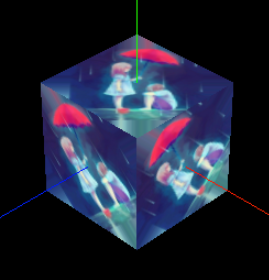
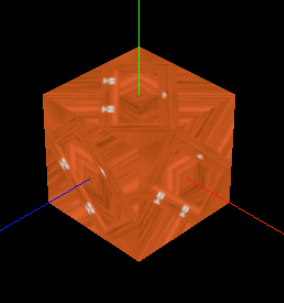
update

diff --git a/Three.js.md b/Three.js.md
@@ -184,6 +184,9 @@ scene.add(pointLightHelper)
 - 平移：拖动鼠标右键
 
 ```js
+// 引入 three.js 扩展库 OrbitControls.js 轨道控制器
+import {OrbitControls} from 'three/examples/jsm/controls/OrbitControls.js'
+
 // 创建轨道控制器
 const controls = new OrbitControls(camera, renderer.domElement)
 
@@ -858,10 +861,10 @@ for (let i = 0; i < 50; i++) {
 
 # 10. 纹理贴图
 
-## 1. 添加纹理贴图
+## 1. 色彩贴图
 
 ```js
-const map = new THREE.TextureLoader().load('./images/yv640.jpg') // 加载纹理（就是加载图片）
+const map = new THREE.TextureLoader().load('./images/door/color.jpg') // 加载纹理（就是加载图片）
 const geometry = new THREE.BoxGeometry(1, 1, 1)
 const material = new THREE.MeshBasicMaterial({
   map // 设置纹理贴图
@@ -874,7 +877,7 @@ scene.add(mesh)
 
 ![](./Three.js/效果图14.png)
 
-## 2. 设置偏移
+### 1. 设置偏移
 
 ```js
 map.offset.set(0.2, 0.2) // 设置 x、y 轴方向的偏移
@@ -885,7 +888,7 @@ map.offset.x = 0.2 // 还可以用属性设置
 
 ![](./Three.js/效果图15.png)
 
-## 3. 设置旋转角度
+### 2. 设置旋转角度
 
 ```js
 map.center.set(0.5, 0.5) // 设置旋转原点，当前为中心点，默认值为 (0, 0)，即左下角
@@ -896,7 +899,7 @@ map.rotation = Math.PI / 4 // 旋转 45 度
 
 ![](./Three.js/效果图16.png)
 
-## 4. 设置纹理重复
+### 3. 设置纹理重复
 
 ```js
 map.repeat.set(2, 3) // 设置 x、y 轴方向的重复
@@ -909,7 +912,7 @@ map.wrapT = THREE.RepeatWrapping // 水平方向普通重复
 
 ![](./Three.js/效果图17.png)
 
-## 5. 纹理显示的算法
+## 2. 纹理显示的算法
 
 ```js
 const map = new THREE.TextureLoader().load('./images/minecraft5.jpg') // 加载一张非常小的图片
@@ -930,13 +933,17 @@ map.magFilter = THREE.NearestFilter
 
 ![](./Three.js/效果图19.png)
 
-## 6. 透明纹理
+## 3. 透明纹理
 
 ```js
+const textureLoader = new THREE.TextureLoader()
+const map = textureLoader.load('./images/door/color.jpg')
+const alpha = textureLoader.load('./images/door/alpha.jpg') // 加载一张灰度纹理贴图
+const geometry = new THREE.BoxGeometry(1, 1, 1)
 const material = new THREE.MeshBasicMaterial({
   map,
   transparent: true, // 允许透明
-  alphaMap: map // 设置一张灰度纹理，用于控制整个表面的不透明度。越黑越透明，越白越不透明（黑色：完全透明，白色：完全不透明）
+  alphaMap: alpha // 设置一张灰度纹理，用于控制整个表面的不透明度。越黑越透明，越白越不透明（黑色：完全透明，白色：完全不透明）
 })
 ```
 
@@ -944,30 +951,31 @@ const material = new THREE.MeshBasicMaterial({
 
 ![](./Three.js/效果图20.png)
 
-## 7. AO 环境遮挡贴图
+## 4. AO 环境遮挡贴图
 
 ```js
-const map = new THREE.TextureLoader().load('./images/yv640.jpg')
+const textureLoader = new THREE.TextureLoader()
+const map = textureLoader.load('./images/door/color.jpg')
+const ao = textureLoader.load('./images/door/ao.jpg') // 加载一张 AO 环境遮挡纹理贴图
 const geometry = new THREE.BoxGeometry(1, 1, 1)
 const material = new THREE.MeshBasicMaterial({
   map,
-  aoMap: map, // 设置 AO 环境遮挡贴图，白色是不遮挡，越黑越遮挡，需要第二组 UV
+  aoMap: ao, // 设置 AO 环境遮挡贴图，白色是不遮挡，越黑越遮挡，需要第二组 UV
   aoMapIntensity: 0.8 // 环境遮挡效果的强度。默认值为 1。零是不遮挡效果。
 })
 const mesh = new THREE.Mesh(geometry, material)
 scene.add(mesh)
-// 设置第二组 uv
-geometry.setAttribute('uv2', new THREE.BufferAttribute(geometry.attributes.uv.array, 2))
+geometry.setAttribute('uv2', new THREE.BufferAttribute(geometry.attributes.uv.array, 2)) // 设置第二组 uv
 ```
 
 效果图：
 
 ![](./Three.js/效果图21.png)
 
-## 8. 标准网格材质与光照物理效果
+## 5. 标准网格材质与光照物理效果
 
 ```js
-const map = new THREE.TextureLoader().load('./images/yv640.jpg')
+const map = new THREE.TextureLoader().load('./images/door/color.jpg')
 const geometry = new THREE.BoxGeometry(1, 1, 1)
 const material = new THREE.MeshStandardMaterial({ // 标准网格材质 MeshStandardMaterial
   map
@@ -993,26 +1001,33 @@ scene.add(directionalLightHelper)
 
 ![](./Three.js/效果图22.png)
 
-## 9. 位移贴图
+## 6. 位移贴图
 
 ```js
-const geometry = new THREE.BoxGeometry(1, 1, 1, 10, 10, 10) // 后三个参数是设置宽、高、长的分段数
+const textureLoader = new THREE.TextureLoader()
+const map = textureLoader.load('./images/door/color.jpg')
+const displacement = textureLoader.load('./images/door/displacement.jpg') // 加载一张位移纹理贴图
+const geometry = new THREE.BoxGeometry(1, 1, 1, 100, 100, 100) // 后三个参数是设置宽、高、长的分段数
 const material = new THREE.MeshStandardMaterial({
   map,
-  displacementMap: map, // 设置位移贴图，需要给几何体设置宽、高、长的分段数才看得出来
+  displacementMap: displacement, // 设置位移贴图，需要给几何体设置宽、高、长的分段数才看得出来
   displacementScale: 0.2 // 设置位移贴图对网格的影响程度（越白位移越多，黑色是无位移）。如果没有设置位移贴图，则不会应用此值。默认值为 1
 })
 ```
 
 ![](./Three.js/效果图23.png)
 
-## 10. 粗糙度贴图
+## 7. 粗糙度贴图
 
 ```js
+const textureLoader = new THREE.TextureLoader()
+const map = textureLoader.load('./images/door/color.jpg')
+const roughness = textureLoader.load('./images/door/roughness.jpg') // 加载一张粗糙度纹理贴图
+const geometry = new THREE.BoxGeometry(1, 1, 1)
 const material = new THREE.MeshStandardMaterial({
   map,
   roughness: 1, // 设置材质的粗糙程度。0 表示平滑的镜面反射，1 表示完全漫反射。默认值为 1。如果还提供 roughnessMap，则两个值相乘。
-  roughnessMap: map // 设置粗糙度贴图，越白越粗糙，越黑越平滑
+  roughnessMap: roughness // 设置粗糙度贴图，越白越粗糙，越黑越平滑
 })
 ```
 
@@ -1020,17 +1035,21 @@ const material = new THREE.MeshStandardMaterial({
 
 ![](./Three.js/效果图24.png)
 
-## 11. 金属度贴图
+## 8. 金属度贴图
 
 ```js
+const textureLoader = new THREE.TextureLoader()
+const map = textureLoader.load('./images/door/color.jpg')
+const roughness = textureLoader.load('./images/door/roughness.jpg')
+const metalness = textureLoader.load('./images/door/metalness.jpg') // 加载一张金属度纹理贴图
+const geometry = new THREE.BoxGeometry(1, 1, 1)
 const material = new THREE.MeshStandardMaterial({
   map,
-  roughness: 1,
-  roughnessMap: map,
+  roughnessMap: roughness,
   // 设置材质与金属的相似度。非金属材质，如木材或石材，使用 0，金属使用 1，通常没有中间值。默认值为 0。
   // 0 到 1 之间的值可用于生锈金属的外观。如果还提供了 metalnessMap，则两个值相乘
   metalness: 1,
-  metalnessMap: map // 设置金属度贴图，白色是非金属，越黑越像金属
+  metalnessMap: metalness // 设置金属度贴图，白色是非金属，越黑越像金属
 })
 ```
 
@@ -1038,49 +1057,52 @@ const material = new THREE.MeshStandardMaterial({
 
 ![](./Three.js/效果图25.png)
 
-## 12. 法线贴图
+## 9. 法线贴图
 
 ```js
+const textureLoader = new THREE.TextureLoader()
+const map = textureLoader.load('./images/door/color.jpg')
+const roughness = textureLoader.load('./images/door/roughness.jpg')
+const metalness = textureLoader.load('./images/door/metalness.jpg')
+const normal = textureLoader.load('./images/door/normal.jpg') // 加载一张法线度纹理贴图
+const geometry = new THREE.BoxGeometry(1, 1, 1)
 const material = new THREE.MeshStandardMaterial({
   map,
-  roughness: 1,
-  roughnessMap: map,
-  metalness: 1,
-  metalnessMap: map,
-  normalMap: map2 // 用于创建法线贴图的纹理。RGB 值会影响每个像素片段的曲面法线，并更改颜色照亮的方式。法线贴图不会改变曲面的实际形状，只会改变光照
+  roughnessMap: roughness,
+  metalnessMap: metalness,
+  normalMap: normal // 用于创建法线贴图的纹理。RGB 值会影响每个像素片段的曲面法线，并更改颜色照亮的方式。法线贴图不会改变曲面的实际形状，只会改变光照
 })
 ```
 
 ![](./Three.js/效果图26.png)
 
-## 13. 演示从 poliigon 上下载的贴图
+## 10. 演示从 poliigon 上下载的贴图
 
 ```js
-const map = new THREE.TextureLoader().load('./images/MetalDesignerWeaveSteel002/MetalDesignerWeaveSteel002_COL_4K_METALNESS.jpg')
-const ao = new THREE.TextureLoader().load('./images/MetalDesignerWeaveSteel002/MetalDesignerWeaveSteel002_AO_4K_METALNESS.jpg')
-const disp = new THREE.TextureLoader().load('./images/MetalDesignerWeaveSteel002/MetalDesignerWeaveSteel002_DISP_4K_METALNESS.jpg')
-const roughness = new THREE.TextureLoader().load('./images/MetalDesignerWeaveSteel002/MetalDesignerWeaveSteel002_ROUGHNESS_4K_METALNESS.jpg')
-const metalness = new THREE.TextureLoader().load('./images/MetalDesignerWeaveSteel002/MetalDesignerWeaveSteel002_METALNESS_4K_METALNESS.jpg')
-const nrm = new THREE.TextureLoader().load('./images/MetalDesignerWeaveSteel002/MetalDesignerWeaveSteel002_NRM_4K_METALNESS.jpg')
+const textureLoader = new THREE.TextureLoader()
+const map = textureLoader.load('./images/MetalDesignerWeaveSteel002/MetalDesignerWeaveSteel002_COL_4K_METALNESS.jpg')
+const ao = textureLoader.load('./images/MetalDesignerWeaveSteel002/MetalDesignerWeaveSteel002_AO_4K_METALNESS.jpg')
+const disp = textureLoader.load('./images/MetalDesignerWeaveSteel002/MetalDesignerWeaveSteel002_DISP_4K_METALNESS.jpg')
+const roughness = textureLoader.load('./images/MetalDesignerWeaveSteel002/MetalDesignerWeaveSteel002_ROUGHNESS_4K_METALNESS.jpg')
+const metalness = textureLoader.load('./images/MetalDesignerWeaveSteel002/MetalDesignerWeaveSteel002_METALNESS_4K_METALNESS.jpg')
+const nrm = textureLoader.load('./images/MetalDesignerWeaveSteel002/MetalDesignerWeaveSteel002_NRM_4K_METALNESS.jpg')
 const geometry = new THREE.BoxGeometry(30, 30, 30, 100, 100, 100) // 正方形
-// const geometry = new THREE.SphereGeometry(20, 64, 32) // 圆形
 const material = new THREE.MeshStandardMaterial({
-  map,
+  map, // 色彩贴图
   aoMap: ao, // AO 环境遮挡贴图
   displacementMap: disp, // 位移贴图
   roughnessMap: roughness, // 粗糙度贴图
-  metalnessMap: metalness, // 金属度贴图 
+  metalnessMap: metalness, // 金属度贴图
   normalMap: nrm // 法线贴图
 })
 const mesh = new THREE.Mesh(geometry, material)
 scene.add(mesh)
-// 设置第二组 uv
-geometry.setAttribute('uv2', new THREE.BufferAttribute(geometry.attributes.uv.array, 2))
+geometry.setAttribute('uv2', new THREE.BufferAttribute(geometry.attributes.uv.array, 2)) // 设置第二组 uv
 ```
 
 ![](./Three.js/效果图27.png)
 
-## 14. 纹理加载进度
+## 11. 纹理加载进度
 
 ### 1. 单张纹理的加载
 
@@ -1122,7 +1144,7 @@ const metalness = textureLoader.load('./images/MetalDesignerWeaveSteel002/MetalD
 const nrm = textureLoader.load('./images/MetalDesignerWeaveSteel002/MetalDesignerWeaveSteel002_NRM_4K_METALNESS.jpg')
 ```
 
-## 15. 环境贴图
+## 12. 环境贴图
 
 ```js
 const cubeTextureLoader = new THREE.CubeTextureLoader()
@@ -1149,7 +1171,7 @@ const material = new THREE.MeshStandardMaterial({
 
 ![](./Three.js/效果图28.png)
 
-## 16. hdr 环境贴图
+## 13. hdr 环境贴图
 
 ```js
 import {RGBELoader} from 'three/examples/jsm/loaders/RGBELoader.js' // 导入 rgb 加载器

diff --git a/English.md b/English.md
@@ -1,0 +1,3 @@
+# 1. 元音（20个）
+
+![](./English/元音（20个）.png)
